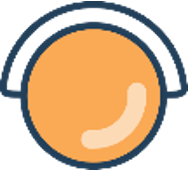
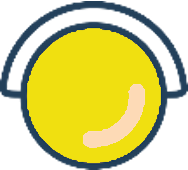
Alteração na cor da bola amarela

diff --git a/src/app/pages/area/area.component.scss b/src/app/pages/area/area.component.scss
@@ -253,7 +253,7 @@
     background-color: #00b050;
 }
 .yellow-legend{
-    background-color: #faa954;
+    background-color: #F0E010;
 }
 .red-legend{
     background-color: #ff0000;

diff --git a/src/app/pages/challenge/challenge.component.scss b/src/app/pages/challenge/challenge.component.scss
@@ -84,7 +84,7 @@
 }
 
 .card-cor-amarela {
-    background-color: #FAA954
+    background-color: #F0E010
 }
 
 .card-cor-preta {
